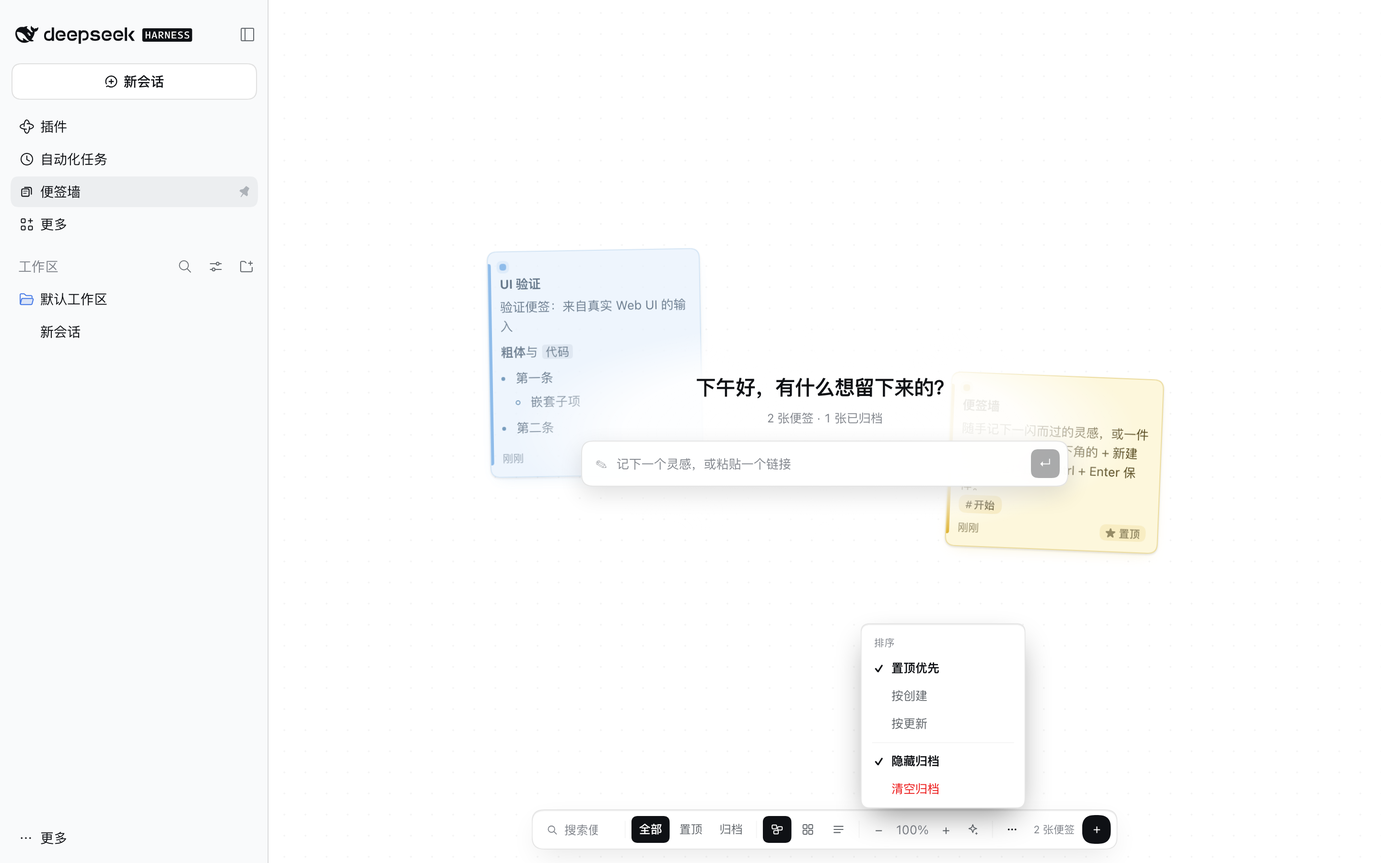
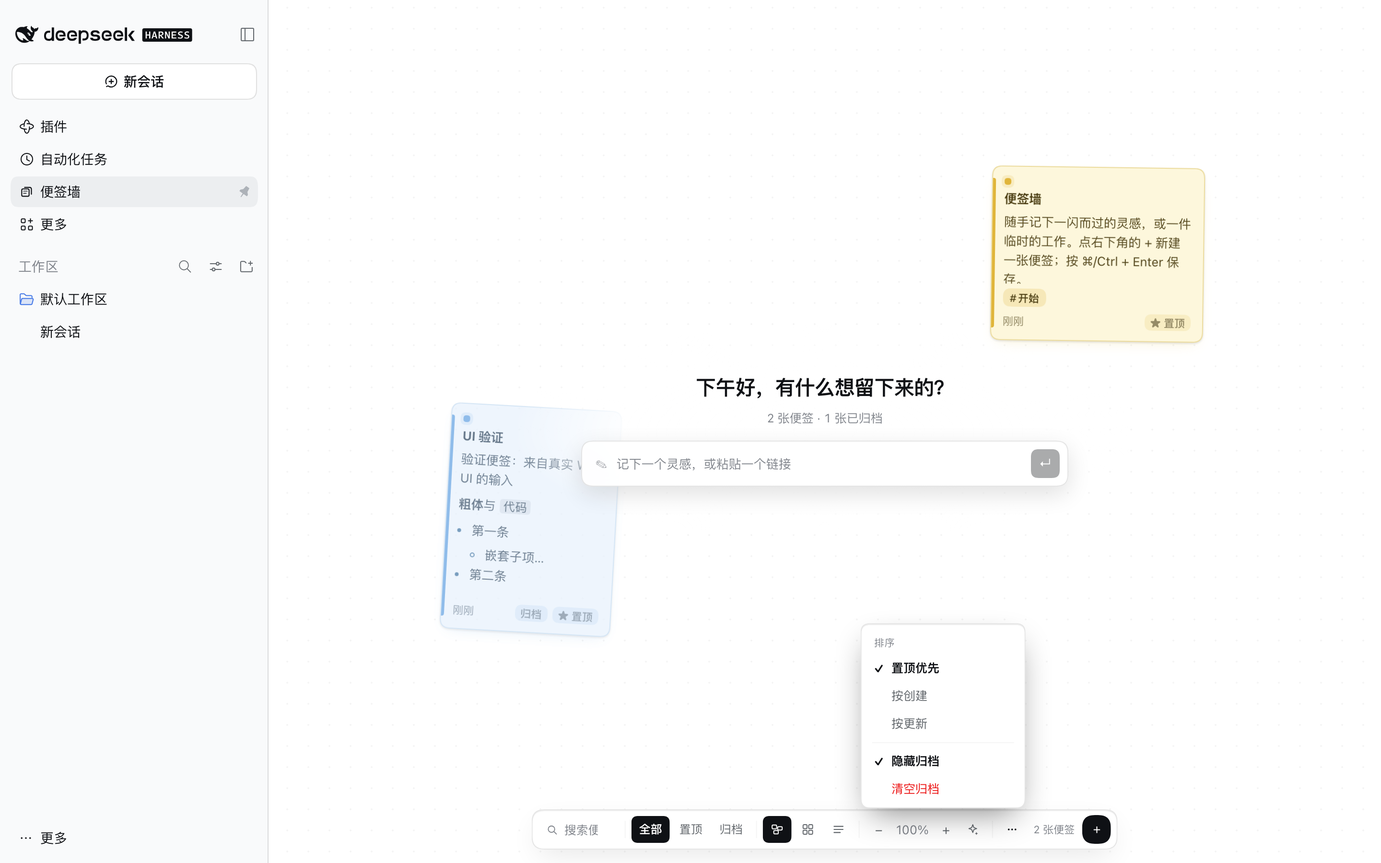
fix: keep the centrepiece a fixed size while the canvas zooms
The greeting, the tally and the quick-capture field are page chrome pinned to
the viewport's middle, but they were counter-scaled by `min(1, zoom)` so their
WORLD footprint stayed constant. That made the packer's reserve a tidy
invariant, and it was the wrong trade: framing a large wall zooms out to the
42% legibility floor, where the capture field was drawn at 42% of its size — an
input box that reads as broken rather than as a zoomed view.

`applyCamera` now writes only the centring transform, so the block keeps its
natural screen size at every zoom. Three knock-on changes keep the placement
guarantees honest:

- The reserve still reports the documented constant half-extents. Deriving it
  from the zoom would feed back: a bigger reserve packs a bigger wall, which
  frames at a lower zoom, which reports a bigger reserve again. Placements are
  persisted, so a size that moves with the camera also turns a card packed clear
  at 100% into an offender at 50%.
- `revealBox` measures the painted field box in screen space instead of
  extrapolating it from the old counter-scale, so a revealed card stays clear of
  whatever is actually drawn. Its no-layout fallback converts the documented
  reserve through the camera scale instead of assuming the painted box exists.
- Tidy packs against the documented reserve rather than the camera-derived one,
  so a repack no longer depends on the zoom the user happened to be at.
[…]

diff --git a/src/client/view.tsx b/src/client/view.tsx
@@ -988,9 +988,19 @@ export function WallPage({ api, locale, t }: WallPageProps): JSX.Element {
    * already in state. Waiting one frame then lets the browser lay them out before
    * `fitWall` measures them; a fit issued any earlier measured the pre-tidy wall,
    * which is why the tidied wall kept opening overflowing at 100%.
+   *
+   * Tidy packs against the DOCUMENTED reserve, not against `centreReserve()`.
+   * That call reports the painted HUD box at the CURRENT zoom, which is the right
+   * answer for "keep this one new card out of the way" but the wrong one for a
+   * repack: tidy then refits the camera, and a reserve derived from the zoom the
+   * user happened to be at would make the packed result depend on the camera
+   * state. Worse, it feeds back — a bigger reserve makes a bigger wall, which
+   * frames at a lower zoom, which reports an even bigger reserve. The constant is
+   * the stable choice, and `arrangeLayouts` anchors the contour at the origin
+   * anyway, so only the half-extents were ever used here.
    */
   async function tidyWall(): Promise<void> {
-    const ran = await mutate(async () => { await api.arrange(life.current.signal, { centreReserve: centreReserve() }) })
+    const ran = await mutate(async () => { await api.arrange(life.current.signal, { centreReserve: CENTRE_RESERVE }) })
     if (!ran) return
     await new Promise<void>((resolve) => { requestAnimationFrame(() => resolve()) })
     if (!alive.current) return
@@ -1143,16 +1153,19 @@ export function WallPage({ api, locale, t }: WallPageProps): JSX.Element {
     const world = worldRef.current
     const viewport = viewportRefCurrent.current
     if (world !== null) world.style.transform = `translate3d(${current.panX}px, ${current.panY}px, 0) scale(${current.zoom})`
-    // The centrepiece is screen-space (it must stay at the viewport's middle), but
-    // its WORLD footprint has to stay constant or the reserve cannot be an
-    // invariant. Counter-scaling below 1 does exactly that: zoomed out, the block
-    // shrinks on screen while covering the same world rectangle. Above 1 it is
-    // capped, so a magnified wall simply gets extra margin around the field.
+    // The centrepiece is a HUD, not a card: it is pinned to the viewport's middle
+    // and keeps its NATURAL size at every zoom.
+    //
+    // It used to be counter-scaled by `min(1, zoom)` so that its world footprint
+    // stayed constant and the clear rectangle could be a fixed invariant. The cost
+    // was that zooming out to frame a large wall shrank the greeting and the
+    // capture field with it — at the 42% fit floor the input was 42% of its size,
+    // which read as a broken control rather than a zoomed view. A fixed screen
+    // size is the right contract for page chrome; the reserve follows the painted
+    // box instead (`centreReserve`), so the middle still stays clear where it
+    // matters.
     const centre = centreRef.current
-    if (centre !== null) {
-      const scale = Math.min(1, current.zoom)
-      centre.style.transform = `translate(-50%, -50%) scale(${scale})`
-    }
+    if (centre !== null) centre.style.transform = 'translate(-50%, -50%)'
     if (viewport !== null) {
       // The paper's dots belong to the world, so their pitch and offset follow
       // the camera instead of staying a fixed screen texture under the cards.
@@ -1376,20 +1389,32 @@ export function WallPage({ api, locale, t }: WallPageProps): JSX.Element {
   /**
    * The clear rectangle the wall must leave for its centrepiece, in WORLD pixels.
    *
-   * The SIZE is fixed and zoom-independent, and that is deliberate. The first
-   * version derived it from the rendered overlay divided by the zoom, which made
-   * the reserve grow as the camera zoomed out — but placements are PERSISTED, so
-   * a card packed clear at 100% became an offender at 50%, and a single zoom-out
-   * put a card behind the capture field. A reserve that resizes when the camera
-   * moves cannot be an invariant.
+   * Two things live here and they are decided differently on purpose.
    *
-   * The POSITION, though, is the camera's business. The centrepiece is a
-   * screen-space overlay pinned to the middle of the viewport, so as the paper
-   * pans and zooms the patch of world it covers travels with it. Reporting only
-   * half-extents made the Host keep the world ORIGIN clear while the field sat
-   * somewhere else entirely: a capture on a panned or zoomed wall was placed —
-   * and then revealed — directly behind the field. Converting the field's own
-   * screen rectangle through the camera gives the world patch it really covers.
+   * The SIZE is the documented constant, independent of the camera. The
+   * centrepiece is now a HUD that keeps its natural screen size at every zoom
+   * (`applyCamera` writes only the centring transform), so its world footprint
+   * genuinely grows as the camera zooms out — but deriving this reserve from the
+   * zoom is the wrong fix, because placements are PERSISTED. A reserve that
+   * shrank and grew with the camera would make a card packed clear at 100% an
+   * offender at 50%, and re-deriving it at 42% would report half-extents near
+   * 670px: the Host would then push each new card most of a screen from the
+   * middle, growing the wall, which frames at a lower zoom, which reports an even
+   * bigger reserve. That feedback loop is why the size stays constant.
+   *
+   * Content passing under the HUD at low zoom is therefore expected, not a bug:
+   * it is page chrome over a canvas, the same contract as any map overlay. What
+   * must never happen is a card being created where the user cannot see it, and
+   * that is `revealBox`'s job — it measures the PAINTED box in screen space, so
+   * it is exact at whatever zoom is on screen right now.
+   *
+   * The POSITION is the camera's business. The centrepiece is pinned to the
+   * middle of the viewport, so as the paper pans the patch of world it covers
+   * travels with it. Reporting only half-extents made the Host keep the world
+   * ORIGIN clear while the field sat somewhere else entirely: a capture on a
+   * panned wall was placed — and then revealed — directly behind the field.
+   * Converting the field's painted centre back through the camera gives the world
+   * point it really sits over.
    */
   const centreReserve = useCallback((): CentreReserve => {
     const base = CENTRE_RESERVE
@@ -1400,9 +1425,6 @@ export function WallPage({ api, locale, t }: WallPageProps): JSX.Element {
     const block = centre.getBoundingClientRect()
     if (view.width === 0 || view.height === 0 || block.width === 0 || block.height === 0) return base
     const zoomNow = camera.current.zoom
-    // The overlay is counter-scaled by `min(1, zoom)` (see `applyCamera`), so its
-    // painted box already spans the fixed world rectangle. Convert its screen
-    // centre back through the camera to find WHERE that rectangle sits.
     const screenX = block.left + block.width / 2 - view.left
     const screenY = block.top + block.height / 2 - view.top
     return {
@@ -1454,16 +1476,19 @@ export function WallPage({ api, locale, t }: WallPageProps): JSX.Element {
     const blockRect = centre === null ? null : centre.getBoundingClientRect()
     const fieldX = blockRect === null ? width / 2 : blockRect.left + blockRect.width / 2 - view.left
     const fieldY = blockRect === null ? height / 2 : blockRect.top + blockRect.height / 2 - view.top
-    const reserve = CENTRE_RESERVE
 
-    /** The field's screen half-extents at a given zoom. */
-    const blockHalf = (zoom: number): { halfW: number; halfH: number } => ({
-      // The painted overlay is counter-scaled by `min(1, zoom)`, while its world
-      // footprint stays fixed; taking the larger of the two keeps the card clear
-      // of whichever is actually on screen.
-      halfW: reserve.halfWidth * Math.max(1, zoom),
-      halfH: reserve.halfHeight * Math.max(1, zoom),
-    })
+    /**
+     * The field's SCREEN half-extents.
+     *
+     * The painted box is the truth: the centrepiece is a HUD with a fixed screen
+     * size, so what it covers on screen does not depend on the zoom at all. When
+     * there is no layout to measure (jsdom, a hidden panel, the first frame) the
+     * documented reserve is converted to screen space instead — world pixels times
+     * the camera scale — so the fallback still describes the same rectangle.
+     */
+    const measured = blockRect !== null && blockRect.width > 0 && blockRect.height > 0
+    const halfW = measured ? blockRect.width / 2 : CENTRE_RESERVE.halfWidth * camera.current.zoom
+    const halfH = measured ? blockRect.height / 2 : CENTRE_RESERVE.halfHeight * camera.current.zoom
 
     const cardX = box.x + box.width / 2
     const cardY = box.y + box.height / 2
@@ -1478,13 +1503,11 @@ export function WallPage({ api, locale, t }: WallPageProps): JSX.Element {
       y + (box.height * zoom) / 2 <= usableBottom
 
     /** Whether the card, centred at a screen point, would be drawn behind the field. */
-    const hiddenAt = (x: number, y: number, zoom: number): boolean => {
-      const { halfW, halfH } = blockHalf(zoom)
-      return x - (box.width * zoom) / 2 < fieldX + halfW &&
-        x + (box.width * zoom) / 2 > fieldX - halfW &&
-        y - (box.height * zoom) / 2 < fieldY + halfH &&
-        y + (box.height * zoom) / 2 > fieldY - halfH
-    }
+    const hiddenAt = (x: number, y: number, zoom: number): boolean =>
+      x - (box.width * zoom) / 2 < fieldX + halfW &&
+      x + (box.width * zoom) / 2 > fieldX - halfW &&
+      y - (box.height * zoom) / 2 < fieldY + halfH &&
+      y + (box.height * zoom) / 2 > fieldY - halfH
 
     // Already visible and clear of the field: move nothing. Stealing the view
     // from someone who is reading is worse than the card being off-centre.
@@ -1505,7 +1528,6 @@ export function WallPage({ api, locale, t }: WallPageProps): JSX.Element {
       const zoom = step === 0
         ? camera.current.zoom
         : Math.max(ZOOM_MIN, camera.current.zoom * 0.88 ** step)
-      const { halfW, halfH } = blockHalf(zoom)
       const halfCardW = (box.width * zoom) / 2
       const halfCardH = (box.height * zoom) / 2
       const candidates = [
@@ -1536,7 +1558,6 @@ export function WallPage({ api, locale, t }: WallPageProps): JSX.Element {
       (width - margin * 2) / Math.max(1, box.width),
       (usableBottom - margin) / Math.max(1, box.height),
     ))
-    const { halfH } = blockHalf(targetZoom)
     const y = fieldY + halfH + gap + (box.height * targetZoom) / 2
     glideCameraTo(targetZoom, width / 2 - cardX * targetZoom, y - cardY * targetZoom)
   }, [glideCameraTo])

diff --git a/tests/view.spec.tsx b/tests/view.spec.tsx
@@ -7,7 +7,7 @@ import type { ClientLocaleLike } from '../src/client/contracts.js'
 import { en, textOf } from '../src/client/text.js'
 import type { Translate } from '../src/client/text.js'
 import { ConfirmDialog, WallPage } from '../src/client/view.jsx'
-import { WIDTH_PX, type Note, type WallSnapshot } from '../src/types.js'
+import { CENTRE_RESERVE, WIDTH_PX, type Note, type WallSnapshot } from '../src/types.js'
 import { WALL_CSS } from '../src/client/styles.js'
 import {
   SHEET_DEFAULT,
@@ -806,6 +806,67 @@ describe('view modes and the free canvas', () => {
     await waitFor(() => expect(document.querySelector('.skw-camera-value')?.textContent).toBe('200%'))
     fireEvent.click(screen.getByRole('button', { name: copy('zoomReset') }))
     await waitFor(() => expect(document.querySelector('.skw-camera-value')?.textContent).toBe('100%'))
+  })
+
+  it('keeps the centrepiece at its natural size instead of scaling it with the camera', async () => {
+    // The complaint this fixes: zooming out to frame a large wall shrank the
+    // greeting and the capture field with it. At the 42% fit floor the input was
+    // 42% of its size, which reads as a broken control rather than a zoomed view.
+    //
+    // The centrepiece used to be counter-scaled by `min(1, zoom)` so its WORLD
+    // footprint stayed constant and the packer's reserve could be an invariant.
+    // Page chrome must not zoom, so the transform is now pure centring and the
+    // reserve follows the painted box instead.
+    const api = makeApi({
+      list: async () => [makeNote({ id: 'a', body: 'x', layout: { x: 400, y: 300, rotate: 0, width: 'md' } })],
+    })
+    render(<WallPage api={api} locale={locale} t={t} />)
+    await waitFor(() => expect(document.querySelector('.skw-centre')).not.toBeNull())
+    const centre = document.querySelector('.skw-centre') as HTMLElement
+    const transformOf = (): string => centre.style.transform
+
+    // At 100% it is already centred and unscaled.
+    expect(transformOf()).toBe('translate(-50%, -50%)')
+
+    // Zoom out three steps: the world shrinks, the HUD must not.
+    const zoomOut = screen.getByRole('button', { name: copy('zoomOut') })
+    for (let step = 0; step < 3; step += 1) fireEvent.click(zoomOut)
+    await waitFor(() => expect(document.querySelector('.skw-camera-value')?.textContent).toBe('55%'))
+    // A scale() here is the defect: it is what made the field shrink with the wall.
+    expect(transformOf()).toBe('translate(-50%, -50%)')
+    expect(transformOf()).not.toContain('scale(')
+
+    // Zooming back in must not scale it up either: the HUD is size-stable in both
+    // directions, not merely clamped at 1.
+    const zoomIn = screen.getByRole('button', { name: copy('zoomIn') })
+    for (let step = 0; step < 6; step += 1) fireEvent.click(zoomIn)
+    await waitFor(() => expect(document.querySelector('.skw-camera-value')?.textContent).toBe('145%'))
+    expect(transformOf()).toBe('translate(-50%, -50%)')
+    expect(transformOf()).not.toContain('scale(')
+  })
+
+  it('anchors the reserve on the painted centrepiece at the current zoom', async () => {
+    // The reserve has two halves and they are decided differently: the SIZE is the
+    // documented constant (placements are persisted, so a camera-derived size would
+    // make a card packed clear at 100% an offender at 50%), while the POSITION must
+    // follow the field, which is pinned to the viewport middle.
+    //
+    // jsdom reports zero-sized boxes, so the measured path falls back to the
+    // documented constant. What this pins is the CONTRACT: the create call carries a
+    // reserve, and its half-extents are the constant rather than a zoom-derived
+    // number. The real-UI suite measures the painted rectangles.
+    const api = makeApi()
+    render(<WallPage api={api} locale={locale} t={t} />)
+    await waitFor(() => expect(document.querySelector('.skw-capture-input')).not.toBeNull())
+    const field = document.querySelector('.skw-capture-input') as HTMLInputElement
+    fireEvent.change(field, { target: { value: '圆心' } })
+    act(() => { fireEvent.submit(document.querySelector('.skw-capture') as HTMLFormElement) })
+    await waitFor(() => expect(api.calls).toContain('create'))
+    const reserve = (api.arguments.find((entry) => entry.method === 'create')?.options as {
+      centreReserve?: { halfWidth: number; halfHeight: number }
+    }).centreReserve
+    expect(reserve?.halfWidth).toBe(CENTRE_RESERVE.halfWidth)
+    expect(reserve?.halfHeight).toBe(CENTRE_RESERVE.halfHeight)
   })
 })
 

diff --git a/lib/client.js b/lib/client.js
@@ -3284,7 +3284,7 @@ window.__ModuleLoader__.load({
 		  }
 		  async function tidyWall() {
 		    const ran = await mutate(async () => {
-		      await api.arrange(life.current.signal, { centreReserve: centreReserve() });
+		      await api.arrange(life.current.signal, { centreReserve: CENTRE_RESERVE });
 		    });
 		    if (!ran) return;
 		    await new Promise((resolve) => {
@@ -3392,10 +3392,7 @@ window.__ModuleLoader__.load({
 		    const viewport = viewportRefCurrent.current;
 		    if (world !== null) world.style.transform = `translate3d(${current.panX}px, ${current.panY}px, 0) scale(${current.zoom})`;
 		    const centre = centreRef.current;
-		    if (centre !== null) {
-		      const scale = Math.min(1, current.zoom);
-		      centre.style.transform = `translate(-50%, -50%) scale(${scale})`;
-		    }
+		    if (centre !== null) centre.style.transform = "translate(-50%, -50%)";
 		    if (viewport !== null) {
 		      viewport.style.backgroundSize = `${DOT_PITCH * current.zoom}px ${DOT_PITCH * current.zoom}px`;
 		      viewport.style.backgroundPosition = `${current.panX}px ${current.panY}px`;
@@ -3560,33 +3557,24 @@ window.__ModuleLoader__.load({
 		    const blockRect = centre === null ? null : centre.getBoundingClientRect();
 		    const fieldX = blockRect === null ? width / 2 : blockRect.left + blockRect.width / 2 - view2.left;
 		    const fieldY = blockRect === null ? height / 2 : blockRect.top + blockRect.height / 2 - view2.top;
-		    const reserve = CENTRE_RESERVE;
-		    const blockHalf = (zoom2) => ({
-		      // The painted overlay is counter-scaled by `min(1, zoom)`, while its world
-		      // footprint stays fixed; taking the larger of the two keeps the card clear
-		      // of whichever is actually on screen.
-		      halfW: reserve.halfWidth * Math.max(1, zoom2),
-		      halfH: reserve.halfHeight * Math.max(1, zoom2)
-		    });
+		    const measured = blockRect !== null && blockRect.width > 0 && blockRect.height > 0;
+		    const halfW = measured ? blockRect.width / 2 : CENTRE_RESERVE.halfWidth * camera.current.zoom;
+		    const halfH = measured ? blockRect.height / 2 : CENTRE_RESERVE.halfHeight * camera.current.zoom;
 		    const cardX = box.x + box.width / 2;
 		    const cardY = box.y + box.height / 2;
 		    const screenX = cardX * camera.current.zoom + camera.current.panX;
 		    const screenY = cardY * camera.current.zoom + camera.current.panY;
 		    const fitsAt = (x, y2, zoom2) => x - box.width * zoom2 / 2 >= margin && x + box.width * zoom2 / 2 <= width - margin && y2 - box.height * zoom2 / 2 >= margin && y2 + box.height * zoom2 / 2 <= usableBottom;
-		    const hiddenAt = (x, y2, zoom2) => {
-		      const { halfW, halfH: halfH2 } = blockHalf(zoom2);
-		      return x - box.width * zoom2 / 2 < fieldX + halfW && x + box.width * zoom2 / 2 > fieldX - halfW && y2 - box.height * zoom2 / 2 < fieldY + halfH2 && y2 + box.height * zoom2 / 2 > fieldY - halfH2;
-		    };
+		    const hiddenAt = (x, y2, zoom2) => x - box.width * zoom2 / 2 < fieldX + halfW && x + box.width * zoom2 / 2 > fieldX - halfW && y2 - box.height * zoom2 / 2 < fieldY + halfH && y2 + box.height * zoom2 / 2 > fieldY - halfH;
 		    if (fitsAt(screenX, screenY, camera.current.zoom) && !hiddenAt(screenX, screenY, camera.current.zoom)) return;
 		    const gap = 26;
 		    for (let step = 0; step <= 8; step += 1) {
 		      const zoom2 = step === 0 ? camera.current.zoom : Math.max(ZOOM_MIN, camera.current.zoom * 0.88 ** step);
-		      const { halfW, halfH: halfH2 } = blockHalf(zoom2);
 		      const halfCardW = box.width * zoom2 / 2;
 		      const halfCardH = box.height * zoom2 / 2;
 		      const candidates = [
-		        { x: fieldX, y: fieldY - halfH2 - gap - halfCardH },
-		        { x: fieldX, y: fieldY + halfH2 + gap + halfCardH },
+		        { x: fieldX, y: fieldY - halfH - gap - halfCardH },
+		        { x: fieldX, y: fieldY + halfH + gap + halfCardH },
 		        { x: fieldX - halfW - gap - halfCardW, y: fieldY },
 		        { x: fieldX + halfW + gap + halfCardW, y: fieldY }
 		      ];
@@ -3608,7 +3596,6 @@ window.__ModuleLoader__.load({
 		      (width - margin * 2) / Math.max(1, box.width),
 		      (usableBottom - margin) / Math.max(1, box.height)
 		    ));
-		    const { halfH } = blockHalf(targetZoom);
 		    const y = fieldY + halfH + gap + box.height * targetZoom / 2;
 		    glideCameraTo(targetZoom, width / 2 - cardX * targetZoom, y - cardY * targetZoom);
 		  }, [glideCameraTo]);

diff --git a/README.en.md b/README.en.md
@@ -25,7 +25,7 @@ Non-goals: task management (no scheduling, assignment or reminders), collaborati
 - **Three views** — canvas (default, free placement), grid (responsive masonry for reading long notes) and list (one line per note for finding one by title).
 - **Full-window canvas** — the wall fills the entire window: no title row and no toolbar row. Every control lives in one **floating dock** at the bottom.
 - **A compact dock** — only the frequent actions stay in the strip: search, filters, three **icon** view buttons, zoom (`− / percent / +`, where the percentage is itself the reset button), tidy and new. Sort, show-archived and clear-archive moved into a `⋯` overflow menu. The dock is a **single row**, centred, and sizes to the window, so no button spills past the strip it is drawn on.
-- **Camera** — drag empty paper to pan, scroll to pan, `⌘/Ctrl + wheel` to zoom around the pointer (0.35×–2×). Opening the wall and pressing reset both frame the whole wall and centre it.
+- **Camera** — drag empty paper to pan, scroll to pan, `⌘/Ctrl + wheel` to zoom around the pointer (0.35×–2×). Opening the wall and pressing reset both frame the whole wall and centre it. The greeting and the capture field are **page chrome**: they keep their natural size at every zoom level instead of shrinking with the canvas.
 - **Markdown bodies** — headings, paragraphs, bold/italic/strikethrough, `code`, code blocks, ordered and unordered lists, `- [ ]` checkboxes, quotes, rules, tables and http(s)/mailto links. The composer has a "Preview" toggle.
 - **Quick capture** — "New" opens a note sheet with an optional title, required body, tags, six pastel colors and a width preset. The sheet starts out large (880×680, still centred on its scrim) and carries a grip in its bottom-right corner: drag it to resize with the pointer, or focus it and use the arrow keys — left/right change the width, up/down the height, `Shift` plus an arrow takes a bigger step, `0` restores the default, and double-clicking the grip resets it too. A size is clamped to stay inside the window with a 24px margin and never goes below 460×380. The size you choose is remembered on this machine and restored next time, and it is **that size** that is remembered: open the wall in a small window and the sheet shrinks to fit, then returns to what you actually picked once the window grows back. The body editor and the preview both fill the sheet instead of each carrying its own height cap.
 - **Pin and archive** — pinned notes carry a coloured left rail and a star; archived notes hide by default, the "Archive" filter fetches them on its own, and "Clear archive" is a permanent delete.
@@ -160,7 +160,7 @@ The install path was verified end to end: derive the spec from the live index, i
 - Card width has only **three presets** (small/medium/large); there is no arbitrary resize. A drag keeps the card's existing tilt. This is about a **card on the canvas** — the only thing you can size freely is the note sheet.
 - Tidy is O(n) spiral placement plus a spatial-grid collision check; the wall holds at most 400 notes, and a wall larger than the viewport needs panning or zooming out.
 - The canvas is a flat plane: no grouping, layers, connectors or snap alignment, and no rotation gesture beyond the stored tilt.
-- Auto-framing has a legibility floor (42%): a large wall is centred rather than crammed entirely into view, so panning is expected. The middle is reserved space — tidy never places a card under the greeting or the capture field, and a capture on a panned or zoomed wall avoids wherever the field currently sits.
+- Auto-framing has a legibility floor (42%): a large wall is centred rather than crammed entirely into view, so panning is expected. The middle is reserved space — tidy never places a card under the greeting or the capture field, and a capture on a panned or zoomed wall avoids wherever the field currently sits. The greeting and the capture field are **page chrome**, so they keep a fixed size instead of scaling with the canvas; at a deep zoom-out a card can therefore pass beneath them, which is normal overlay behaviour rather than a layering bug.
 - Placement is owned by the Host, but two windows open on the same wall each render their own snapshot and do not live-push the other's drags — they do refetch on focus and on the slow poll, so neither stays stale for long.
 - Archived notes do not occupy a `maxNotes` slot, but restoring them does; a restore at the cap is rejected instead of silently overshooting.
 - "Clear archive" is a permanent, irreversible delete.

diff --git a/README.md b/README.md
@@ -25,7 +25,7 @@
 - **三种视图**：画布（默认，自由摆位）、网格（响应式瀑布流，适合读长文）、列表（一行一条，适合按标题找）。
 - **全幅画布**：便签墙占满整个窗口，没有顶部标题栏和工具栏；所有控件收进底部一条**浮动菜单栏**。
 - **紧凑菜单栏**：底部只留高频动作 —— 搜索、筛选、三个**图标**视图切换、缩放（`− / 百分比 / +`，百分比本身可点即重置）、整理、新建。排序、显示归档、清空归档收进 `⋯` 溢出菜单。菜单栏是**单行**、居中、宽度自适应窗口，任何按钮都不会溢出背景条。
-- **相机**：拖动空白纸面平移，滚轮平移，`⌘/Ctrl + 滚轮` 以指针为锚点缩放（0.35×–2×）；打开与重置时自动把整面墙框进视野。
+- **相机**：拖动空白纸面平移，滚轮平移，`⌘/Ctrl + 滚轮` 以指针为锚点缩放（0.35×–2×）；打开与重置时自动把整面墙框进视野。中间的问候语与记录框是**页面控件**，任何缩放级别下都保持原始大小，不会跟着画布一起缩小。
 - **Markdown 正文**：正文按 Markdown 渲染 —— 标题、段落、粗体/斜体/删除线、`代码`、代码块、有序/无序列表、`- [ ]` 复选、引用、分隔线、表格、http(s)/mailto 链接。编辑时右侧有「预览」切换。
 - **随手记录**：`+ 新建` 打开便签纸，标题可选、正文必填，可打标签、选六种柔和底色、选卡片宽度。便签纸默认就很大（880×680，仍然在遮罩里居中），右下角有一个握把：拖它用指针改尺寸，聚焦后方向键也能改 —— 左右改宽、上下改高，`Shift + 方向键` 一次走更大的步长，`0` 恢复默认，双击握把同样恢复默认。尺寸被限制在「始终待在窗口内、四周留 24px」与 460×380 的下限之间。选好的尺寸记在本机、下次打开照旧，而且记的是**你选的那个尺寸本身**：小窗口里打开会先缩到装得下，窗口放大后回到你真正选过的尺寸。正文编辑器与预览都撑满整张便签纸，不再各自带一个高度上限。
 - **置顶与归档**：置顶的便签带左侧色条与星标；归档的便签默认隐藏，「归档」筛选会单独拉取它们，「清空归档」是永久删除。
@@ -171,7 +171,7 @@ node scripts/preview.mjs check   # 离线校验预览图与 locale 元数据（n
 - 卡片宽度只有小/中/大**三档预设**，不支持任意拖拽调整宽度；拖动会保留卡片原有的轻微倾角。这一条说的是**画布上的卡片**，大小可调的只有随手记录的便签纸。
 - 整理是 O(n) 的螺旋放置 + 网格碰撞检测；便签上限 400 张，超出视野的墙需要自己平移或缩小。
 - 画布是二维平面：没有分组、图层、连线或吸附对齐；也不支持双指旋转或触屏捏合之外的手势。
-- 自动取景有可读性下限（42%）：便签很多时整面墙不会全部挤进视野，而是居中显示、需要平移查看。整理不会把卡片放在问候语和记录框下面；平移到别处再新建时，落点也会避开记录框当前所在的位置。
+- 自动取景有可读性下限（42%）：便签很多时整面墙不会全部挤进视野，而是居中显示、需要平移查看。整理不会把卡片放在问候语和记录框下面；平移到别处再新建时，落点也会避开记录框当前所在的位置。中间的问候语和记录框是**页面控件**，缩放时保持固定大小、不跟随画布放大缩小；因此缩得很小时，卡片可能从它下面经过 —— 这是浮层的正常行为，不是遮挡错误。
 - 便签的位置由 Host 保存；同一面墙在两个窗口同时打开时，各自渲染自己的快照，不会实时推送另一个窗口的拖动结果 —— 但窗口重新获得焦点/重新可见时会重新拉取，所以不会长期停在旧状态。
 - 归档便签不占 `maxNotes` 名额，但恢复它们会占名额；名额已满时恢复会被拒绝而不是悄悄超限。
 - 「清空归档」是永久删除，不可撤销。

diff --git a/CHANGELOG.md b/CHANGELOG.md
@@ -1,5 +1,38 @@
 # Changelog
 
+## 0.9.3
+
+### Patch Changes
+
+- Keep the wall's centrepiece at a fixed size while the canvas zooms.
+  
+  The greeting, the tally and the quick-capture field are page chrome pinned to the
+  viewport's middle, but they were counter-scaled by `min(1, zoom)` so their WORLD
+  footprint stayed constant. That made the packer's reserve a tidy invariant, and
+  it was the wrong trade: framing a large wall zooms out to the 42% legibility
+  floor, where the capture field was drawn at 42% of its size — an input box that
+  reads as broken rather than as a zoomed view.
+  
+  The centrepiece now keeps its natural size at every zoom and `applyCamera` writes
+  only the centring transform. Two knock-on changes keep the placement guarantees
+  honest:
+  
+  - The reserve still reports the documented constant half-extents. Deriving it from
+    the zoom would feed back: a bigger reserve packs a bigger wall, which frames at a
+    lower zoom, which reports a bigger reserve again. Placements are persisted, so a
+    size that moves with the camera also turns a card packed clear at 100% into an
+    offender at 50%.
+  - `revealBox` now measures the painted field box in screen space instead of
+    extrapolating it from the old counter-scale, so a revealed card stays clear of
+    whatever is actually drawn.
+  
+  Consequence worth knowing: at a deep zoom-out a card can pass beneath the fixed
+  overlay. That is normal behaviour for page chrome over a canvas, and the capture
+  field remains clickable because the overlay's wrapper ignores pointers.
+  
+  Tidy now packs against the documented reserve rather than the camera-derived one,
+  so a repack no longer depends on the zoom the user happened to be at.
+
 ## 0.9.2
 
 ### Patch Changes
